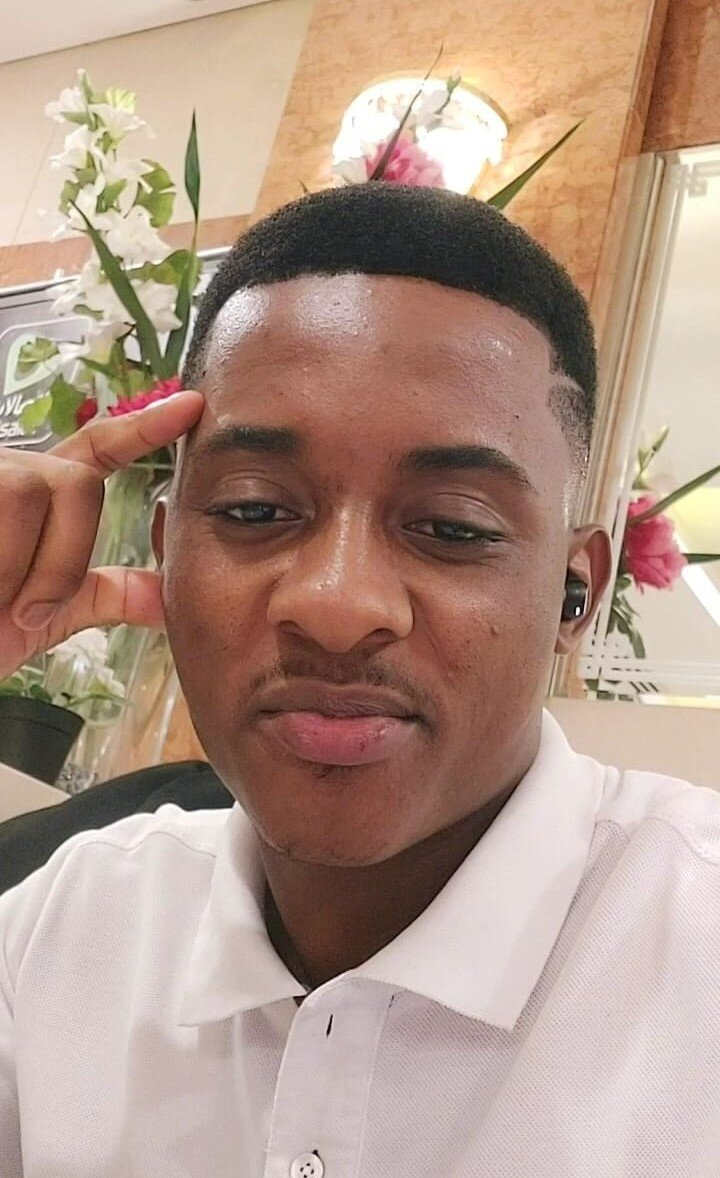
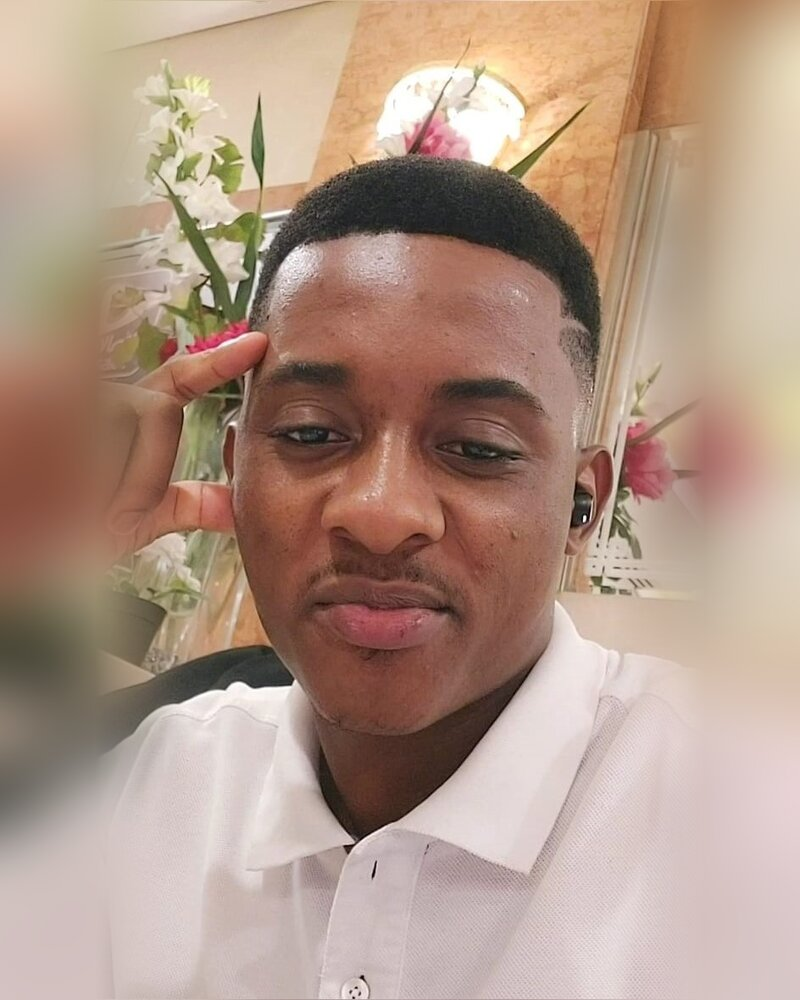
style(team): fit Chiagoziem's full photo with blended edges

diff --git a/src/app/components/TeamSection.tsx b/src/app/components/TeamSection.tsx
@@ -56,24 +56,13 @@ function SocialLinks({ member, className = "justify-center" }: { member: TeamMem
 }
 
 function Photo({ member, className = "" }: { member: TeamMember; className?: string }) {
-  const contain = member.photoFit === "contain";
   return (
     <div className={`relative aspect-[4/5] overflow-hidden bg-secondary ${className}`}>
-      {contain && (
-        // Blurred copy of the photo fills the space around the full image.
-        <img
-          src={member.photo}
-          alt=""
-          aria-hidden
-          loading="lazy"
-          className="absolute inset-0 w-full h-full object-cover scale-110 blur-xl opacity-60 group-hover:grayscale transition duration-500"
-        />
-      )}
       <img
         src={member.photo}
         alt={`${member.name}, ${member.role}`}
         loading="lazy"
-        className={`relative w-full h-full ${contain ? "object-contain" : "object-cover object-top"} group-hover:grayscale group-hover:scale-[1.03] transition duration-500`}
+        className="w-full h-full object-cover object-top group-hover:grayscale group-hover:scale-[1.03] transition duration-500"
       />
     </div>
   );

diff --git a/src/app/data/team.ts b/src/app/data/team.ts
@@ -18,8 +18,6 @@ export type TeamMember = {
   role: string;
   title?: string; // optional second line, e.g. "Claude Ambassador"
   photo: string;
-  /** "contain" shows the whole photo (with a blurred fill behind it) instead of cropping it. */
-  photoFit?: "cover" | "contain";
   links?: TeamLinks;
 };
 
@@ -35,7 +33,6 @@ export const LEADERSHIP: TeamEntry[] = [
     role: "President",
     title: "Claude Ambassador",
     photo: "/team/Chiagoziem.jpeg",
-    photoFit: "contain",
     links: {
       linkedin: "https://www.linkedin.com/in/chiago/",
       github: "https://github.com/El-Gibbor",
